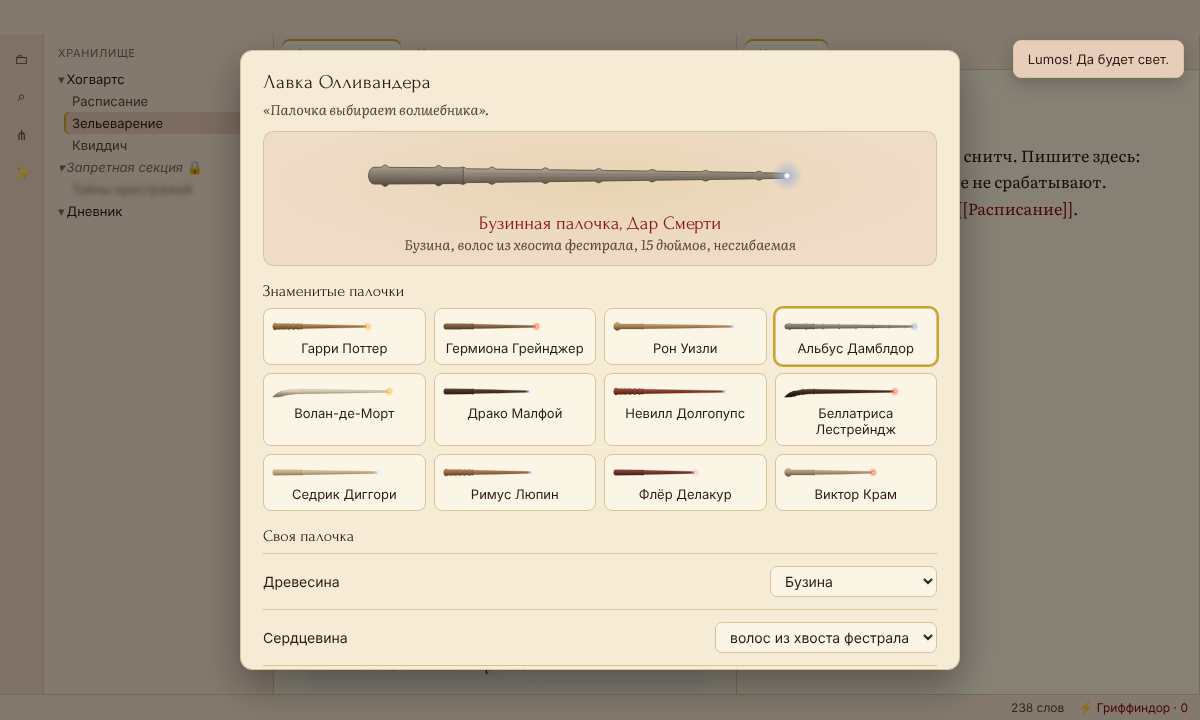
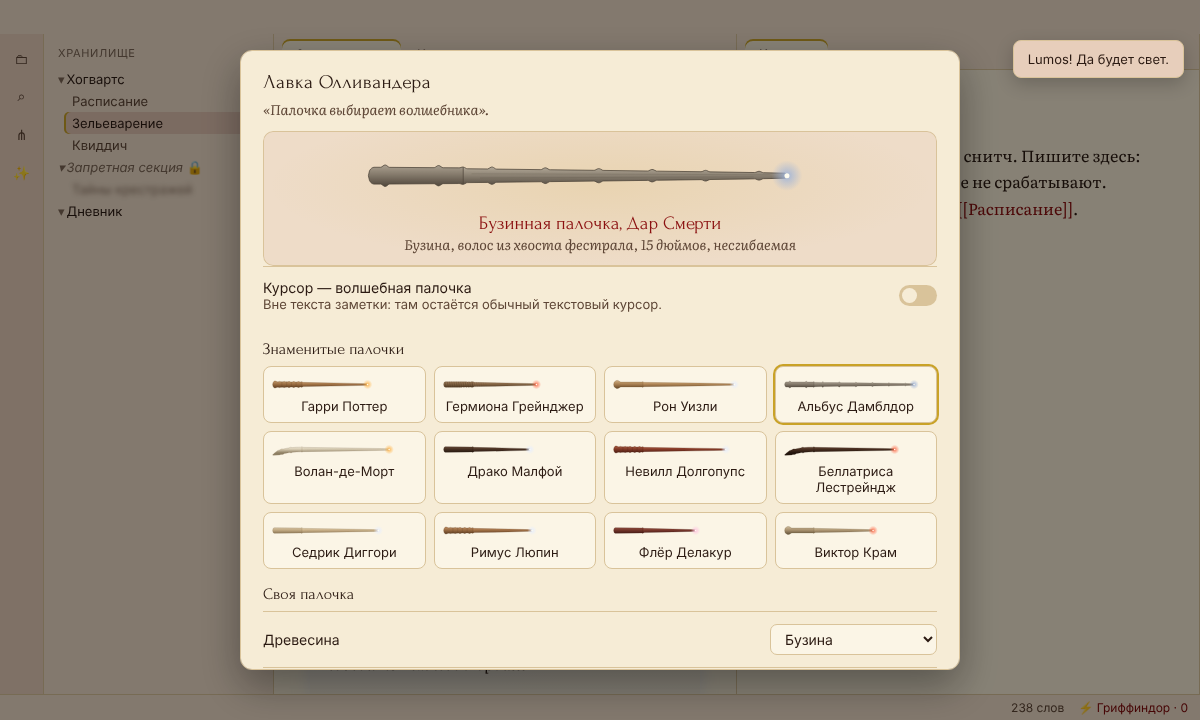
Show the chosen wand cursor over Obsidian's buttons, files and tabs
Obsidian's interactive elements take their cursor from --cursor (an arrow
by default), so the wand set on <body> was hidden almost everywhere. The
wand now also goes into --cursor; links keep the pointer. The harness
mimics Obsidian's --cursor so the e2e test catches this. The cursor can
also be switched on right in Ollivanders.

Claude-Session: https://claude.ai/code/session_01C9QS16kiu8nEC1RRCVwcHD

Changed region(s): [[0.2158, 0.3972, 0.8017, 0.9167], [0.2158, 0.8861, 0.2775, 0.9167]]

diff --git a/harness/obsidian-base.css b/harness/obsidian-base.css
@@ -83,11 +83,11 @@ body {
 .workspace { flex: 1; display: flex; min-height: 0; }
 .workspace-ribbon { width: 44px; flex: none; background: var(--ribbon-background); border-right: 1px solid var(--background-modifier-border); }
 .side-dock-actions { display: flex; flex-direction: column; align-items: center; gap: 10px; padding-top: 10px; }
-.clickable-icon { width: 28px; height: 28px; display: grid; place-items: center; border-radius: 6px; color: var(--text-muted); cursor: pointer; font-size: 14px; }
+.clickable-icon { width: 28px; height: 28px; display: grid; place-items: center; border-radius: 6px; color: var(--text-muted); cursor: var(--cursor); font-size: 14px; }
 .clickable-icon:hover { background: var(--background-modifier-hover); }
 .mod-left-split { width: 230px; flex: none; background: var(--background-secondary); border-right: 1px solid var(--background-modifier-border); padding: 8px 6px; overflow: hidden; }
 .nav-header { font-size: 11px; color: var(--text-faint); text-transform: uppercase; letter-spacing: .06em; padding: 4px 8px 8px; }
-.tree-item-self { display: flex; gap: 2px; padding: 3px 8px; border-radius: 5px; color: var(--text-muted); font-size: 13px; cursor: pointer; }
+.tree-item-self { display: flex; gap: 2px; padding: 3px 8px; border-radius: 5px; color: var(--text-muted); font-size: 13px; cursor: var(--cursor); }
 .tree-item-self:hover { background: var(--background-modifier-hover); }
 .nav-folder-title { color: var(--text-normal); }
 .nav-folder-title::before { content: '▾ '; color: var(--text-faint); }
@@ -96,7 +96,7 @@ body {
 .mod-root { flex: 1; display: flex; min-width: 0; }
 .workspace-tabs { flex: 1; display: flex; flex-direction: column; min-width: 0; border-right: 1px solid var(--background-modifier-border); }
 .workspace-tab-header-container { height: 36px; flex: none; display: flex; align-items: flex-end; gap: 2px; padding: 0 8px; background: var(--tab-container-background); border-bottom: 1px solid var(--background-modifier-border); }
-.workspace-tab-header { padding: 7px 14px; border-radius: 8px 8px 0 0; color: var(--text-muted); font-size: 13px; }
+.workspace-tab-header { padding: 7px 14px; border-radius: 8px 8px 0 0; color: var(--text-muted); font-size: 13px; cursor: var(--cursor); }
 .workspace-tab-header.is-active { background: var(--background-primary); color: var(--text-normal); }
 .workspace-leaf-content { flex: 1; overflow: auto; background: var(--background-primary); }
 .mod-left-split .workspace-leaf-content { background: transparent; }
@@ -124,30 +124,33 @@ body {
 .HyperMD-header-1 .cm-header { font-family: var(--h1-font); font-weight: var(--h1-weight); color: var(--h1-color); font-size: 1.8em; }
 .cm-content .cm-link { color: var(--link-color); }
 .status-bar { height: 26px; flex: none; display: flex; justify-content: flex-end; align-items: center; gap: 14px; padding: 0 12px; font-size: 12px; color: var(--text-muted); background: var(--status-bar-background); border-top: 1px solid var(--background-modifier-border); }
-.status-bar-item.mod-clickable { cursor: pointer; }
+.status-bar-item.mod-clickable { cursor: var(--cursor); }
 .modal-container { position: fixed; inset: 0; display: grid; place-items: center; z-index: 50; }
 .modal-bg { position: absolute; inset: 0; background: rgba(0, 0, 0, .45); }
 .modal { position: relative; width: min(560px, 92vw); max-height: 86vh; overflow: auto; padding: 20px 22px; border-radius: 12px; background: var(--background-primary); border: 1px solid var(--background-modifier-border); box-shadow: 0 16px 40px rgba(0,0,0,.35); }
 .modal-title { font-size: 1.4em; margin-bottom: 10px; }
 input[type="text"] { width: 100%; padding: 8px 12px; border-radius: 8px; border: 1px solid var(--background-modifier-border); background: var(--background-modifier-form-field); color: var(--text-normal); font-size: 15px; }
 input[type="text"]:focus { outline: 2px solid var(--background-modifier-border-focus, var(--interactive-accent)); }
-button { font: inherit; padding: 6px 14px; border-radius: 7px; border: 1px solid var(--background-modifier-border); background: var(--interactive-normal); color: var(--text-normal); cursor: pointer; }
+button { font: inherit; padding: 6px 14px; border-radius: 7px; border: 1px solid var(--background-modifier-border); background: var(--interactive-normal); color: var(--text-normal); cursor: var(--cursor); }
 button.mod-cta { background: var(--interactive-accent); color: var(--text-on-accent); border-color: transparent; }
 .setting-item { display: flex; justify-content: space-between; gap: 16px; align-items: center; padding: 12px 0; border-top: 1px solid var(--background-modifier-border); }
 .setting-item-description { color: var(--text-muted); font-size: 13px; }
-.checkbox-container { width: 38px; height: 21px; border-radius: 11px; background: var(--background-modifier-border); position: relative; cursor: pointer; flex: none; }
+.checkbox-container { width: 38px; height: 21px; border-radius: 11px; background: var(--background-modifier-border); position: relative; cursor: var(--cursor); flex: none; }
 .checkbox-container::after { content: ''; position: absolute; top: 3px; left: 3px; width: 15px; height: 15px; border-radius: 50%; background: var(--background-primary); transition: transform .15s; }
 .checkbox-container.is-enabled { background: var(--interactive-accent); }
 .checkbox-container.is-enabled::after { transform: translateX(17px); }
 .menu { position: fixed; z-index: 70; min-width: 220px; padding: 4px; border-radius: 8px; background: var(--background-secondary); border: 1px solid var(--background-modifier-border); box-shadow: 0 8px 24px rgba(0,0,0,.25); }
-.menu-item { display: flex; gap: 8px; align-items: center; padding: 5px 8px; border-radius: 5px; cursor: pointer; }
+.menu-item { display: flex; gap: 8px; align-items: center; padding: 5px 8px; border-radius: 5px; cursor: var(--cursor); }
 .menu-item:hover { background: var(--background-modifier-hover); }
 .menu-item.mod-checked .menu-item-title::after { content: ' ✓'; }
 .menu-separator { height: 1px; margin: 4px 2px; background: var(--background-modifier-border); }
-.suggestion-item { padding: 6px 10px; border-radius: 6px; cursor: pointer; }
+.suggestion-item { padding: 6px 10px; border-radius: 6px; cursor: var(--cursor); }
 .notice-container { position: fixed; top: 40px; right: 16px; z-index: 80; display: grid; gap: 8px; }
 .notice { max-width: 320px; padding: 10px 14px; border-radius: 8px; background: var(--background-secondary-alt, var(--background-secondary)); color: var(--text-normal); border: 1px solid var(--background-modifier-border); box-shadow: 0 6px 18px rgba(0,0,0,.2); font-size: 13px; }
 .hp-harness-settings-wrap { position: fixed; inset: 0; z-index: 40; display: grid; place-items: center; background: rgba(0,0,0,.45); }
 .hp-harness-settings { width: min(720px, 94vw); max-height: 90vh; overflow: auto; padding: 22px 28px; border-radius: 12px; background: var(--background-primary); border: 1px solid var(--background-modifier-border); }
 select.dropdown { font: inherit; padding: 5px 10px; border-radius: 7px; border: 1px solid var(--background-modifier-border); background: var(--interactive-normal); color: var(--text-normal); }
 input.slider { accent-color: var(--interactive-accent); width: 180px; }
+/* Как в Obsidian: интерактивные элементы берут курсор из --cursor (по умолчанию — стрелка) */
+body { --cursor: default; --cursor-link: pointer; }
+a { cursor: var(--cursor-link); }

diff --git a/main.js b/main.js
@@ -1369,16 +1369,15 @@ function wandName(t, wand) {
   return preset ? t(`presetWand_${preset}`) : t("shopCustomWand");
 }
 var WandShopModal = class extends import_obsidian.Modal {
-  constructor(app, t, wand, onChange, onClosed) {
+  constructor(app, t, options) {
     super(app);
     this.t = t;
-    this.onChange = onChange;
-    this.onClosed = onClosed;
+    this.options = options;
     this.cards = /* @__PURE__ */ new Map();
     this.dropdowns = [];
     this.slider = null;
     this.lengthLabel = null;
-    this.wand = { ...wand };
+    this.wand = { ...options.wand };
   }
   onOpen() {
     const { t, contentEl } = this;
@@ -1392,6 +1391,7 @@ var WandShopModal = class extends import_obsidian.Modal {
       name: stage.createDiv({ cls: "hp-shop-name" }),
       desc: stage.createDiv({ cls: "hp-shop-desc" })
     };
+    new import_obsidian.Setting(contentEl).setName(t("settingWandCursor")).setDesc(t("settingWandCursorDesc")).addToggle((tg) => tg.setValue(this.options.cursor).onChange((value) => this.options.onCursor(value))).settingEl.addClass("hp-shop-cursor");
     contentEl.createDiv({ cls: "hp-shop-heading", text: t("shopCanon") });
     const grid = contentEl.createDiv({ cls: "hp-shop-presets" });
     for (const preset of WAND_PRESETS) {
@@ -1420,7 +1420,7 @@ var WandShopModal = class extends import_obsidian.Modal {
     this.contentEl.empty();
     this.cards.clear();
     this.dropdowns = [];
-    this.onClosed?.();
+    this.options.onClosed?.();
   }
   dropdown(container, key, name, options) {
     new import_obsidian.Setting(container).setName(name).addDropdown((d) => {
@@ -1435,12 +1435,12 @@ var WandShopModal = class extends import_obsidian.Modal {
     for (const { key, control } of this.dropdowns) control.setValue(this.wand[key]);
     this.slider?.setValue(this.wand.length);
     this.refresh();
-    this.onChange({ ...this.wand });
+    this.options.onChange({ ...this.wand });
   }
   update(patch) {
     this.wand = { ...this.wand, ...patch };
     this.refresh();
-    this.onChange({ ...this.wand });
+    this.options.onChange({ ...this.wand });
   }
   refresh() {
     const { t, wand, stage } = this;
@@ -1783,7 +1783,16 @@ var HpThemePlugin = class extends import_obsidian3.Plugin {
     }).open();
   }
   openWandShop(after) {
-    new WandShopModal(this.app, this.t, this.settings.wand, (wand) => this.setWand(wand), after).open();
+    new WandShopModal(this.app, this.t, {
+      wand: this.settings.wand,
+      cursor: this.settings.wandCursor,
+      onChange: (wand) => this.setWand(wand),
+      onCursor: (enabled) => {
+        this.settings.wandCursor = enabled;
+        void this.saveSettings();
+      },
+      onClosed: after
+    }).open();
   }
   openWand() {
     new WandModal(this.app, this.t, this.settings.gestures, (phrase) => {

diff --git a/src/modals.ts b/src/modals.ts
@@ -71,6 +71,15 @@ export function wandName(t: Translate, wand: WandSpec): string {
   return preset ? t(`presetWand_${preset}`) : t('shopCustomWand');
 }
 
+export interface WandShopOptions {
+  wand: WandSpec;
+  /** Включён ли курсор-палочка: переключатель есть прямо в лавке. */
+  cursor: boolean;
+  onChange(wand: WandSpec): void;
+  onCursor(enabled: boolean): void;
+  onClosed?(): void;
+}
+
 /** Лавка Олливандера: знаменитые палочки и конструктор своей. */
 export class WandShopModal extends Modal {
   private wand: WandSpec;
@@ -80,15 +89,9 @@ export class WandShopModal extends Modal {
   private slider: SliderComponent | null = null;
   private lengthLabel: HTMLElement | null = null;
 
-  constructor(
-    app: App,
-    private readonly t: Translate,
-    wand: WandSpec,
-    private readonly onChange: (wand: WandSpec) => void,
-    private readonly onClosed?: () => void
-  ) {
+  constructor(app: App, private readonly t: Translate, private readonly options: WandShopOptions) {
     super(app);
-    this.wand = { ...wand };
+    this.wand = { ...options.wand };
   }
 
   onOpen(): void {
@@ -104,6 +107,11 @@ export class WandShopModal extends Modal {
       name: stage.createDiv({ cls: 'hp-shop-name' }),
       desc: stage.createDiv({ cls: 'hp-shop-desc' })
     };
+    new Setting(contentEl)
+      .setName(t('settingWandCursor'))
+      .setDesc(t('settingWandCursorDesc'))
+      .addToggle((tg) => tg.setValue(this.options.cursor).onChange((value) => this.options.onCursor(value)))
+      .settingEl.addClass('hp-shop-cursor');
 
     contentEl.createDiv({ cls: 'hp-shop-heading', text: t('shopCanon') });
     const grid = contentEl.createDiv({ cls: 'hp-shop-presets' });
@@ -140,7 +148,7 @@ export class WandShopModal extends Modal {
     this.contentEl.empty();
     this.cards.clear();
     this.dropdowns = [];
-    this.onClosed?.();
+    this.options.onClosed?.();
   }
 
   private dropdown(container: HTMLElement, key: 'wood' | 'core' | 'handle' | 'flex', name: string, options: [string, string][]): void {
@@ -157,13 +165,13 @@ export class WandShopModal extends Modal {
     for (const { key, control } of this.dropdowns) control.setValue(this.wand[key]);
     this.slider?.setValue(this.wand.length);
     this.refresh();
-    this.onChange({ ...this.wand });
+    this.options.onChange({ ...this.wand });
   }
 
   private update(patch: Partial<WandSpec>): void {
     this.wand = { ...this.wand, ...patch };
     this.refresh();
-    this.onChange({ ...this.wand });
+    this.options.onChange({ ...this.wand });
   }
 
   private refresh(): void {

diff --git a/src/styles/theme.css b/src/styles/theme.css
@@ -165,8 +165,11 @@ body.hp-theme.hp-ornaments :is(.nav-file-title, .tree-item-self).is-active {
 /* ---------- Курсор — волшебная палочка ---------- */
 
 /* Сама палочка (древесина, рукоять, свечение сердцевины) рисуется в src/wands.ts,
-   плагин кладёт её в --hp-wand-cursor */
+   плагин кладёт её в --hp-wand-cursor. Кнопки, файлы, вкладки и пункты меню Obsidian
+   берут курсор из --cursor, поэтому палочка подставляется и туда. Ссылки (--cursor-link)
+   остаются «рукой». */
 body.hp-theme.hp-wand {
+  --cursor: var(--hp-wand-cursor, default);
   cursor: var(--hp-wand-cursor, auto);
 }
 
@@ -179,7 +182,7 @@ body.hp-theme.hp-wand :is(.markdown-source-view, .markdown-reading-view, .cm-edi
 /* ---------- Статус-бар, настройки, модалки ---------- */
 
 .hp-status {
-  cursor: pointer;
+  cursor: var(--cursor, pointer);
   color: var(--hp-primary, var(--text-accent));
 }
 
@@ -192,7 +195,7 @@ body.hp-theme.hp-wand :is(.markdown-source-view, .markdown-reading-view, .cm-edi
 
 .hp-settings-header .hp-crest {
   line-height: 0;
-  cursor: pointer;
+  cursor: var(--cursor, pointer);
   user-select: none;
 }
 
@@ -241,7 +244,7 @@ body.hp-theme.hp-wand :is(.markdown-source-view, .markdown-reading-view, .cm-edi
   color: var(--text-normal);
   font-size: var(--font-ui-small);
   white-space: normal;
-  cursor: pointer;
+  cursor: var(--cursor, pointer);
 }
 
 .hp-house-card:hover {
@@ -349,7 +352,7 @@ body.theme-dark :is(.hp-wand-current, .hp-shop-preview, .hp-shop-preset) svg {
 }
 
 .hp-spellbook > summary {
-  cursor: pointer;
+  cursor: var(--cursor, pointer);
   color: var(--text-muted);
 }
 
@@ -444,7 +447,7 @@ body.theme-dark :is(.hp-wand-current, .hp-shop-preview, .hp-shop-preset) svg {
   border-radius: 8px;
   white-space: normal;
   font-size: var(--font-ui-small);
-  cursor: pointer;
+  cursor: var(--cursor, pointer);
 }
 
 .hp-shop-preset svg {
@@ -536,7 +539,7 @@ body.theme-dark .hp-footprint {
   border: 0;
   background: none;
   box-shadow: none;
-  cursor: pointer;
+  cursor: var(--cursor, pointer);
   pointer-events: auto;
   filter: drop-shadow(0 0 5px rgba(255, 200, 60, 0.9)) drop-shadow(0 1px 2px rgba(0, 0, 0, 0.35));
 }

diff --git a/styles.css b/styles.css
@@ -532,8 +532,11 @@ body.hp-theme.hp-ornaments :is(.nav-file-title, .tree-item-self).is-active {
 /* ---------- Курсор — волшебная палочка ---------- */
 
 /* Сама палочка (древесина, рукоять, свечение сердцевины) рисуется в src/wands.ts,
-   плагин кладёт её в --hp-wand-cursor */
+   плагин кладёт её в --hp-wand-cursor. Кнопки, файлы, вкладки и пункты меню Obsidian
+   берут курсор из --cursor, поэтому палочка подставляется и туда. Ссылки (--cursor-link)
+   остаются «рукой». */
 body.hp-theme.hp-wand {
+  --cursor: var(--hp-wand-cursor, default);
   cursor: var(--hp-wand-cursor, auto);
 }
 
@@ -546,7 +549,7 @@ body.hp-theme.hp-wand :is(.markdown-source-view, .markdown-reading-view, .cm-edi
 /* ---------- Статус-бар, настройки, модалки ---------- */
 
 .hp-status {
-  cursor: pointer;
+  cursor: var(--cursor, pointer);
   color: var(--hp-primary, var(--text-accent));
 }
 
@@ -559,7 +562,7 @@ body.hp-theme.hp-wand :is(.markdown-source-view, .markdown-reading-view, .cm-edi
 
 .hp-settings-header .hp-crest {
   line-height: 0;
-  cursor: pointer;
+  cursor: var(--cursor, pointer);
   user-select: none;
 }
 
@@ -608,7 +611,7 @@ body.hp-theme.hp-wand :is(.markdown-source-view, .markdown-reading-view, .cm-edi
   color: var(--text-normal);
   font-size: var(--font-ui-small);
   white-space: normal;
-  cursor: pointer;
+  cursor: var(--cursor, pointer);
 }
 
 .hp-house-card:hover {
@@ -716,7 +719,7 @@ body.theme-dark :is(.hp-wand-current, .hp-shop-preview, .hp-shop-preset) svg {
 }
 
 .hp-spellbook > summary {
-  cursor: pointer;
+  cursor: var(--cursor, pointer);
   color: var(--text-muted);
 }
 
@@ -811,7 +814,7 @@ body.theme-dark :is(.hp-wand-current, .hp-shop-preview, .hp-shop-preset) svg {
   border-radius: 8px;
   white-space: normal;
   font-size: var(--font-ui-small);
-  cursor: pointer;
+  cursor: var(--cursor, pointer);
 }
 
 .hp-shop-preset svg {
@@ -903,7 +906,7 @@ body.theme-dark .hp-footprint {
   border: 0;
   background: none;
   box-shadow: none;
-  cursor: pointer;
+  cursor: var(--cursor, pointer);
   pointer-events: auto;
   filter: drop-shadow(0 0 5px rgba(255, 200, 60, 0.9)) drop-shadow(0 1px 2px rgba(0, 0, 0, 0.35));
 }

diff --git a/src/main.ts b/src/main.ts
@@ -231,7 +231,16 @@ export default class HpThemePlugin extends Plugin {
   }
 
   openWandShop(after?: () => void): void {
-    new WandShopModal(this.app, this.t, this.settings.wand, (wand) => this.setWand(wand), after).open();
+    new WandShopModal(this.app, this.t, {
+      wand: this.settings.wand,
+      cursor: this.settings.wandCursor,
+      onChange: (wand) => this.setWand(wand),
+      onCursor: (enabled) => {
+        this.settings.wandCursor = enabled;
+        void this.saveSettings();
+      },
+      onClosed: after
+    }).open();
   }
 
   openWand(): void {

diff --git a/README.md b/README.md
@@ -38,7 +38,7 @@
 
 - **Знаменитые палочки**: древесина, сердцевина и длина взяты из книг и Pottermore, форма рукояти — по палочкам из фильмов. Например, у Гарри остролист, перо феникса и 11 дюймов, у Гермионы виноградная лоза, сердечная жила дракона и 10¾ дюйма, у Бузинной палочки бузина, волос из хвоста фестрала и 15 дюймов.
 - **Своя палочка**: 15 пород дерева, 5 сердцевин, 6 рукоятей (гладкая, с кольцами, резная лоза, узловатая, костяной коготь, навершие-шар), длина от 8 до 16 дюймов с шагом ¼ и 6 степеней гибкости. Кнопка «Пусть палочка выберет сама» собирает случайную.
-- Палочка появляется в курсоре (если он включён) и в настройках. Сердцевина задаёт цвет следа и искр: у пера феникса золотой, у жилы дракона алый, у волоса единорога серебристый.
+- Палочка появляется в настройках и в курсоре. Курсор-палочку можно включить прямо в лавке: она видна над пустым местом, файлами, вкладками и кнопками. Над текстом заметки остаётся обычный текстовый курсор, над ссылками — «рука». Сердцевина задаёт цвет следа и искр: у пера феникса золотой, у жилы дракона алый, у волоса единорога серебристый.
 
 | Лавка Олливандера | След палочки |
 |---|---|
